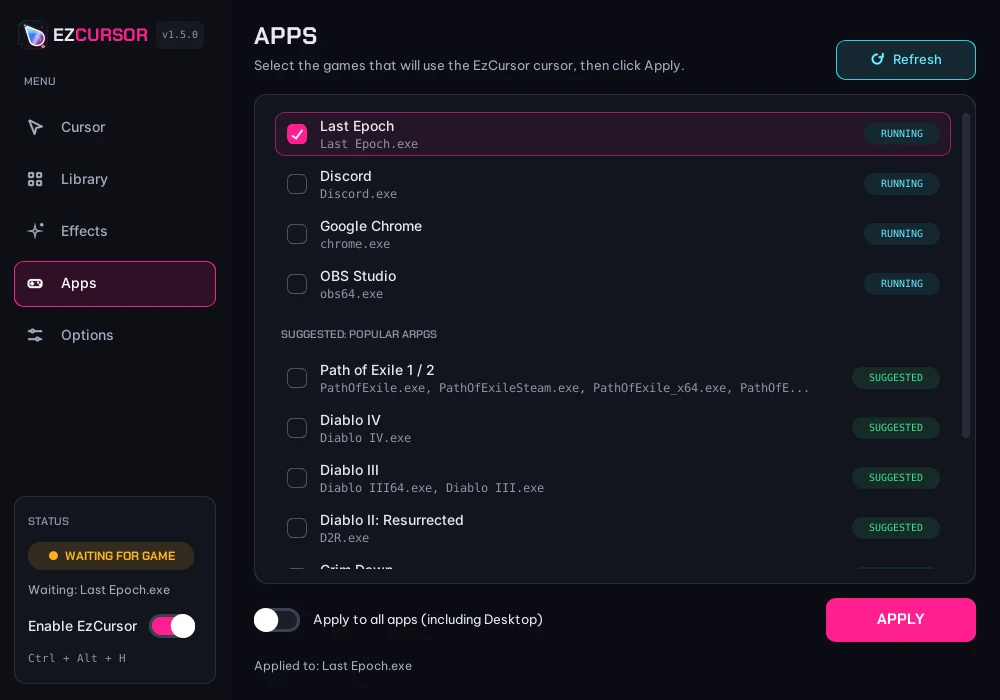
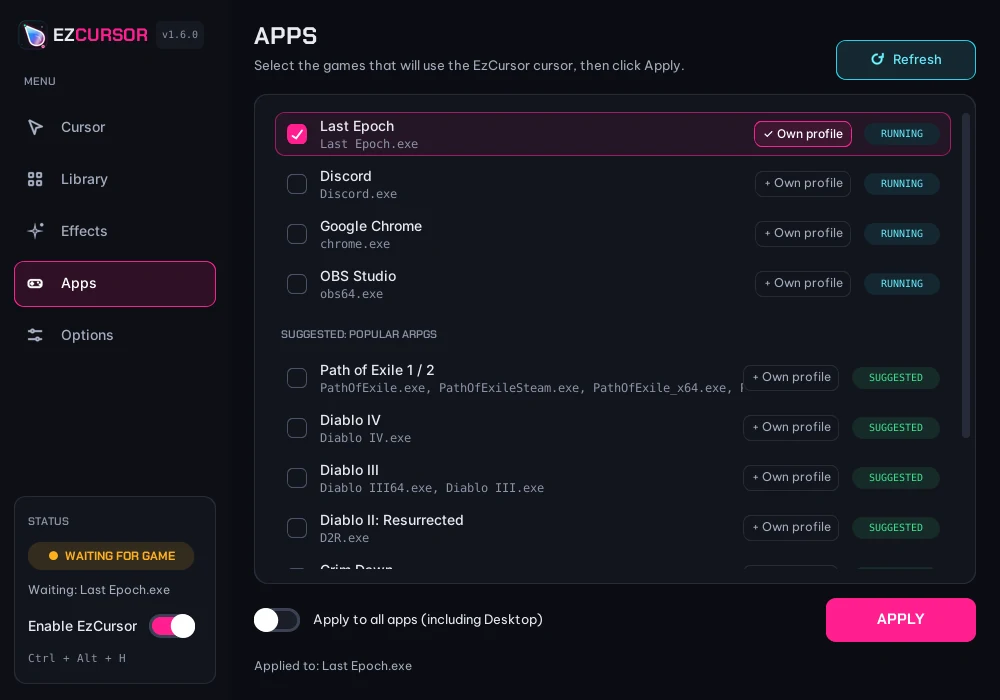
1.6
Cách hoạt động:

Tạo hồ sơ: trong tab Ứng dụng, mỗi game có nút “+ Hồ sơ riêng”. Bấm vào thì app sao chép kiểu Mặc định thành hồ sơ của game đó và mở sẵn tab Con trỏ để chỉnh. Nếu game chưa được áp dụng, app tự thêm vào danh sách áp dụng. Game đã có hồ sơ thì nút đổi thành “✓ Hồ sơ riêng”.
Chỉnh hồ sơ: ở đầu tab Con trỏ, Bộ sưu tập và Hiệu ứng có ô “Đang chỉnh” để chọn Mặc định (mọi game) hoặc hồ sơ của từng game. Nút thùng rác bên cạnh dùng để xóa hồ sơ.
Một hồ sơ gồm: hình, màu, kích thước, quầng sáng, ảnh tải lên (mỗi hồ sơ giữ ảnh riêng), bộ Bibata, và toàn bộ hiệu ứng.
Khi chơi: EzCursor tự dùng hồ sơ của game đang mở. Game chưa có hồ sơ riêng dùng kiểu Mặc định như trước. Phím tắt đổi hình, đổi màu sẽ đổi hồ sơ của game đang chơi. Khung Trạng thái ghi thêm dòng “Hồ sơ: …”.
Cài đặt cũ vẫn giữ nguyên và trở thành hồ sơ Mặc định.

diff --git a/main.js b/main.js
@@ -39,6 +39,8 @@
     "feat.3d": "Sparkle, neon, rainbow, ghost and bubble trails; ripple or fireworks on click.",
     "feat.4t": "Steps aside when needed",
     "feat.4d": "The real cursor returns when you open Start, Search, Alt+Tab or hover the taskbar.",
+    "feat.9t": "A style for every game",
+    "feat.9d": "Give each game its own profile with a different cursor and effects. EzCursor switches as you change games.",
     "feat.7t": "Pick your game in one click",
     "feat.7d": "Ready-made suggestions for Last Epoch, Path of Exile, Diablo, Grim Dawn and more ARPGs, plus a warning when a game runs in Fullscreen.",
     "feat.8t": "Hotkeys your way",
@@ -55,7 +57,7 @@
     "guide.3t": "Pick your game",
     "guide.3d": "In EzCursor's <b>Apps</b> tab, tick your game in the suggestions (or start the game and click <b>Refresh</b> to see running games), then click <b>Apply</b>.",
     "guide.4t": "Choose a cursor you like",
-    "guide.4d": "Adjust it in the <b>Cursor</b> or <b>Library</b> tab and add a trail in <b>Effects</b>. Click X to tuck EzCursor into the system tray.",
+    "guide.4d": "Adjust it in the <b>Cursor</b> or <b>Library</b> tab and add a trail in <b>Effects</b>. Want a different look per game? Click <b>+ Own profile</b> on the game's row in the Apps tab. Click X to tuck EzCursor into the system tray.",
     "keys.title": "Hotkeys",
     "keys.note": "These are the defaults. You can change them in the Options tab.",
     "keys.h": "Turn the cursor on / off", "keys.r": "Change shape", "keys.c": "Change color", "keys.q": "Quit EzCursor",
@@ -89,10 +91,10 @@
       pending: "Chưa điền thông tin. Mở file config.js để thêm.",
       missingShot: "Chưa có ảnh. Thêm file vào", shotAlt: "Tab {t} của EzCursor",
       caps: {
-        cursor: "Chọn hình dạng, màu và kích thước, xem trước trực tiếp.",
+        cursor: "Chọn hình dạng, màu và kích thước, xem trước trực tiếp. Ô Đang chỉnh chọn hồ sơ của từng game.",
         library: "Liquid Drop, Mảnh hồng và 13 con trỏ Bibata, có chủ đề màu và bản cho tay trái.",
         fx: "Vệt theo con trỏ, hiệu ứng khi click và nút thử ngay trên màn hình.",
-        apps: "Game đang chạy và gợi ý các game ARPG phổ biến, tích chọn rồi bấm Áp dụng.",
+        apps: "Game đang chạy và gợi ý các game ARPG phổ biến. Tích chọn, bấm Áp dụng, hoặc tạo hồ sơ riêng cho từng game.",
         opts: "Ngôn ngữ, khởi động cùng Windows, cập nhật và phím tắt tự đặt."
       }
     },
@@ -104,10 +106,10 @@
       pending: "Not filled in yet. Edit config.js to add it.",
       missingShot: "No image yet. Add the file", shotAlt: "EzCursor {t} tab",
       caps: {
-        cursor: "Pick a shape, color and size with a live preview.",
+        cursor: "Pick a shape, color and size with a live preview. The Editing box picks each game's profile.",
         library: "Liquid Drop, Pink Shard and 13 Bibata cursors, with color themes and left-handed versions.",
         fx: "Cursor trails, click effects and a button to try them on screen.",
-        apps: "Running games plus suggested popular ARPGs. Tick them and click Apply.",
+        apps: "Running games plus suggested popular ARPGs. Tick and Apply, or give a game its own profile.",
         opts: "Language, start with Windows, updates and custom hotkeys."
       }
     }

diff --git a/index.html b/index.html
@@ -129,6 +129,7 @@
     <li><strong data-i18n="feat.2t">Hoặc tự tạo</strong> <span data-i18n="feat.2d">Chọn hình, màu, kích thước từ 24 đến 160 px, thêm quầng sáng, hoặc dùng ảnh PNG, GIF động và file con trỏ Windows .cur, .ani của riêng bạn.</span></li>
     <li><strong data-i18n="feat.3t">Hiệu ứng</strong> <span data-i18n="feat.3d">Vệt lấp lánh, vệt neon, cầu vồng, bóng mờ, bong bóng; gợn sóng hoặc pháo hoa khi click.</span></li>
     <li><strong data-i18n="feat.4t">Tự nhường chỗ</strong> <span data-i18n="feat.4d">Con trỏ thật hiện lại khi bạn mở menu Start, Search, Alt+Tab hoặc rê lên taskbar.</span></li>
+    <li><strong data-i18n="feat.9t">Mỗi game một phong cách</strong> <span data-i18n="feat.9d">Tạo hồ sơ riêng cho từng game với con trỏ và hiệu ứng khác nhau. EzCursor tự đổi khi bạn chuyển game.</span></li>
     <li><strong data-i18n="feat.7t">Chọn game trong một chạm</strong> <span data-i18n="feat.7d">Gợi ý sẵn Last Epoch, Path of Exile, Diablo, Grim Dawn và nhiều game ARPG khác, kèm cảnh báo khi game đang chạy Fullscreen.</span></li>
     <li><strong data-i18n="feat.8t">Phím tắt theo ý bạn</strong> <span data-i18n="feat.8d">Đổi tổ hợp phím bật/tắt, đổi hình, đổi màu và thoát để không trùng với phím của game.</span></li>
     <li><strong data-i18n="feat.5t">Chạy ngầm gọn nhẹ</strong> <span data-i18n="feat.5d">Nằm dưới khay hệ thống, có thể khởi động cùng Windows và tự kiểm tra bản cập nhật.</span></li>
@@ -154,7 +155,7 @@
     </li>
     <li>
       <h3 data-i18n="guide.4t">Chọn con trỏ bạn thích</h3>
-      <p data-i18n-html="guide.4d">Chỉnh ở tab <b>Con trỏ</b> hoặc <b>Bộ sưu tập</b>, thêm vệt sáng ở tab <b>Hiệu ứng</b>. Bấm X để thu EzCursor xuống khay hệ thống.</p>
+      <p data-i18n-html="guide.4d">Chỉnh ở tab <b>Con trỏ</b> hoặc <b>Bộ sưu tập</b>, thêm vệt sáng ở tab <b>Hiệu ứng</b>. Muốn mỗi game một kiểu riêng, bấm <b>+ Hồ sơ riêng</b> ở dòng của game trong tab Ứng dụng. Bấm X để thu EzCursor xuống khay hệ thống.</p>
     </li>
   </ol>
 
